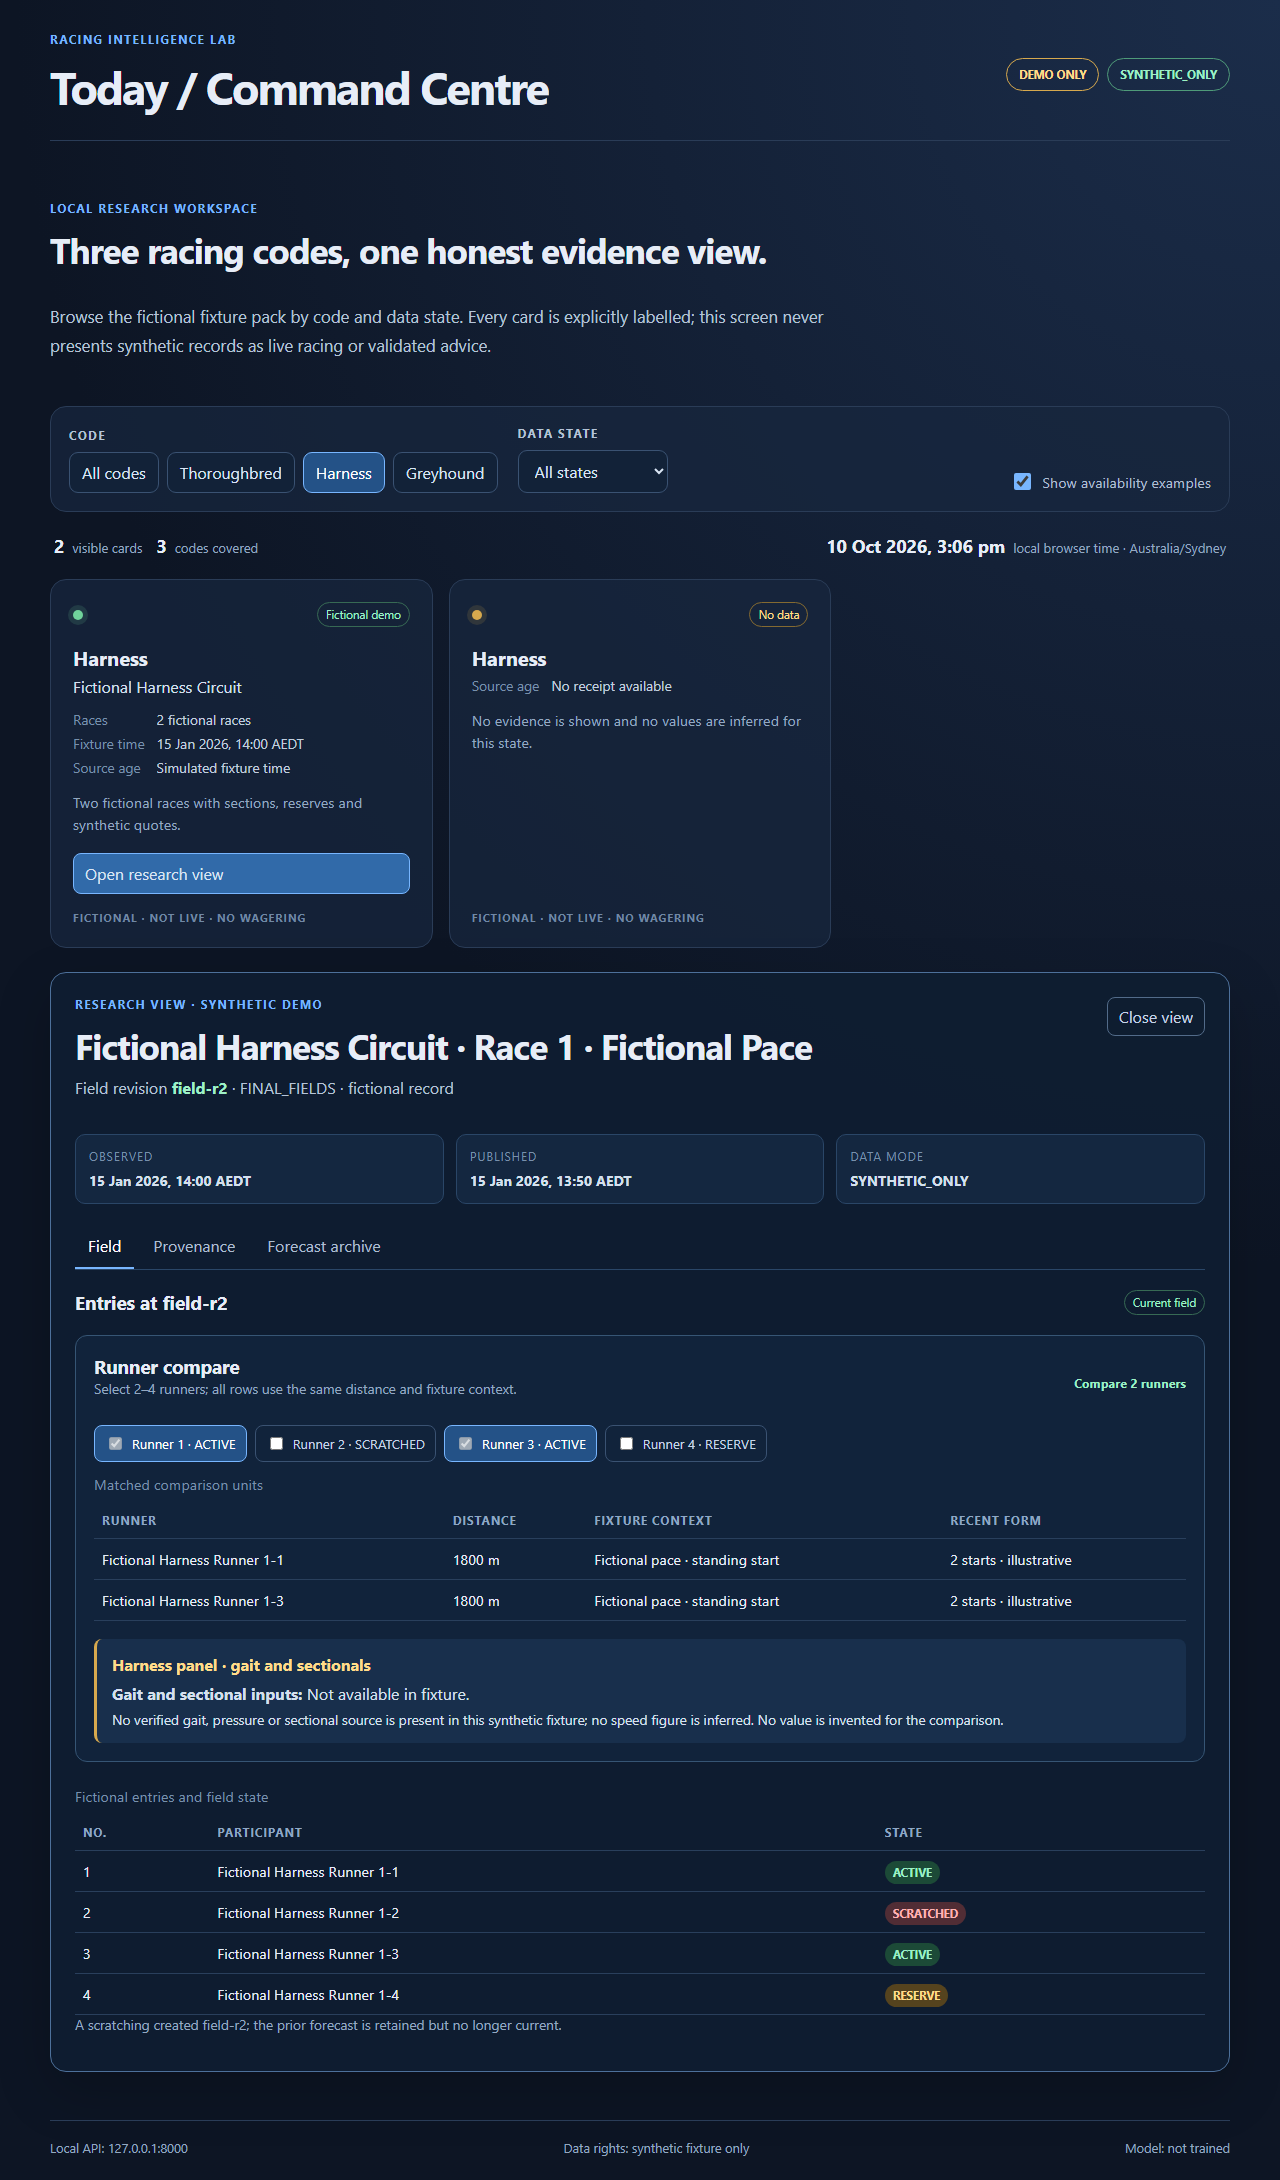
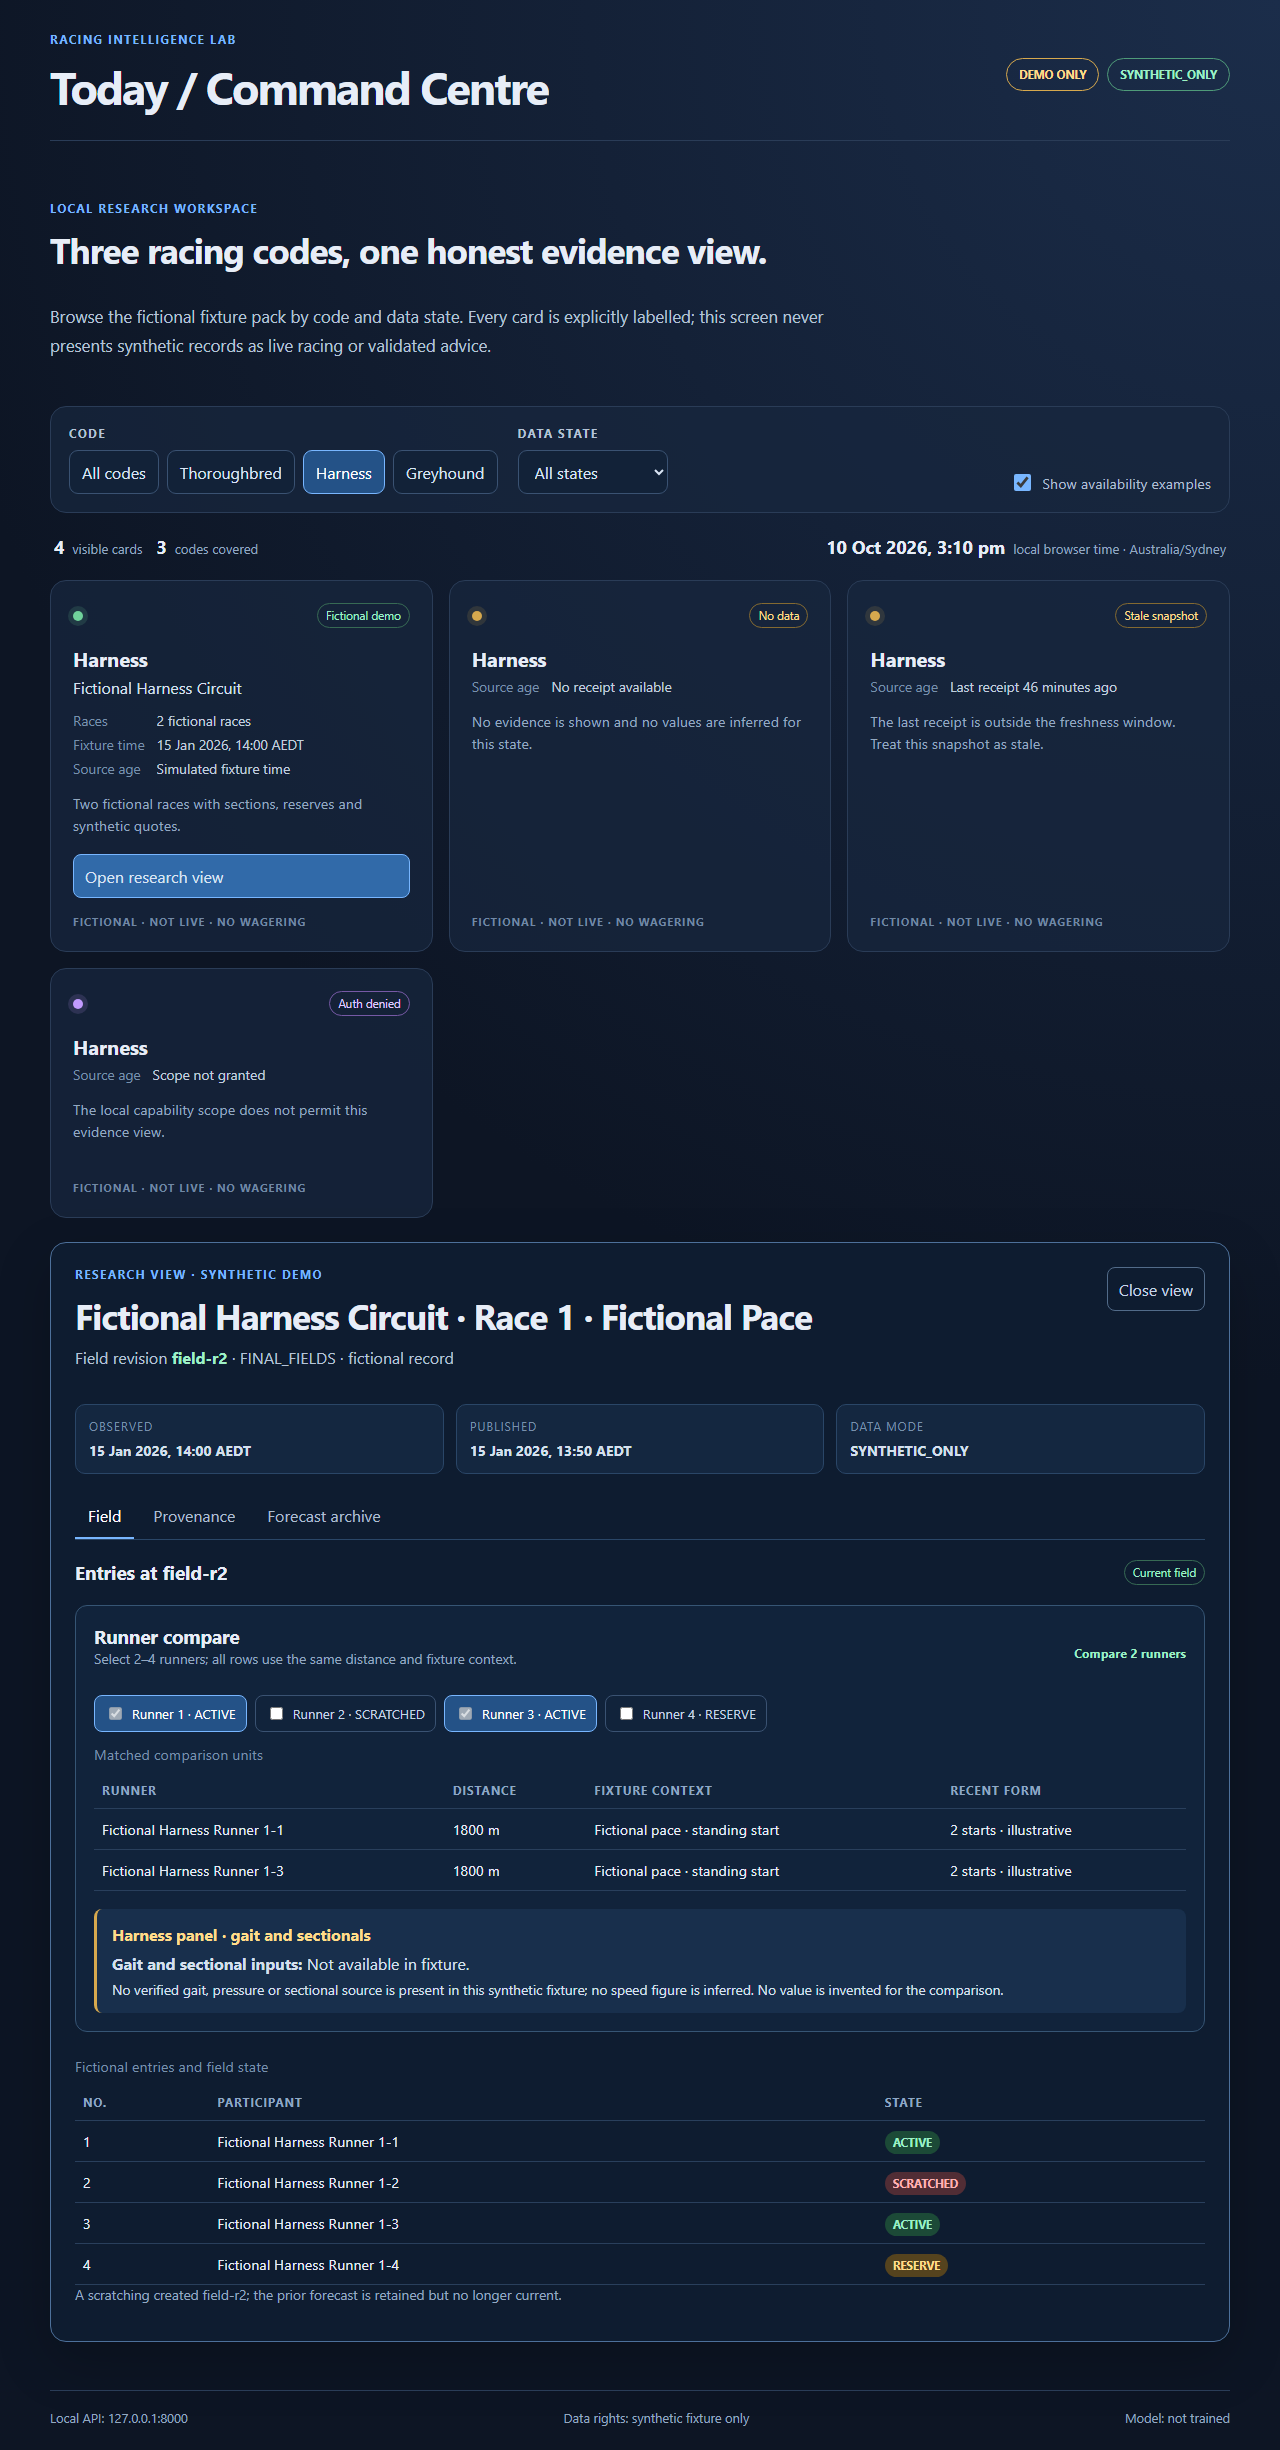
feat: harden degraded states and accessibility

diff --git a/apps/web/src/App.tsx b/apps/web/src/App.tsx
@@ -1,7 +1,7 @@
 import { useMemo, useState } from 'react';
 
 type Code = 'ALL' | 'THOROUGHBRED' | 'HARNESS' | 'GREYHOUND';
-type Status = 'DEMO' | 'NO_RACING' | 'NO_DATA' | 'UNAVAILABLE';
+type Status = 'DEMO' | 'NO_RACING' | 'NO_DATA' | 'UNAVAILABLE' | 'LOADING' | 'STALE' | 'QUARANTINED' | 'UNSUPPORTED' | 'AUTH_DENIED';
 
 type CommandItem = {
   id: string;
@@ -42,9 +42,14 @@ const codes: Array<{ value: Code; label: string }> = [
 const statuses: Array<{ value: Status | 'ALL'; label: string }> = [
   { value: 'ALL', label: 'All states' },
   { value: 'DEMO', label: 'Demo fixture' },
+  { value: 'LOADING', label: 'Loading' },
+  { value: 'STALE', label: 'Stale snapshot' },
   { value: 'NO_RACING', label: 'No racing' },
   { value: 'NO_DATA', label: 'No data' },
+  { value: 'QUARANTINED', label: 'Quarantined' },
+  { value: 'UNSUPPORTED', label: 'Unsupported' },
   { value: 'UNAVAILABLE', label: 'Unavailable' },
+  { value: 'AUTH_DENIED', label: 'Auth denied' },
 ];
 
 const commandItems: CommandItem[] = [
@@ -74,6 +79,26 @@ const commandItems: CommandItem[] = [
   {
     id: 'unavailable', code: 'THOROUGHBRED', label: 'Thoroughbred', status: 'UNAVAILABLE',
     sourceAge: 'Source disabled', note: 'This state is used when a source is disabled or not entitled.',
+  },
+  {
+    id: 'loading', code: 'THOROUGHBRED', label: 'Thoroughbred', status: 'LOADING',
+    sourceAge: 'Request in progress', note: 'The source request is still running. No partial values are displayed.',
+  },
+  {
+    id: 'stale', code: 'HARNESS', label: 'Harness', status: 'STALE',
+    sourceAge: 'Last receipt 46 minutes ago', note: 'The last receipt is outside the freshness window. Treat this snapshot as stale.',
+  },
+  {
+    id: 'quarantined', code: 'GREYHOUND', label: 'Greyhound', status: 'QUARANTINED',
+    sourceAge: 'Receipt held for review', note: 'The receipt failed validation and is quarantined until its reason is resolved.',
+  },
+  {
+    id: 'unsupported', code: 'THOROUGHBRED', label: 'Thoroughbred', status: 'UNSUPPORTED',
+    sourceAge: 'Capability not supported', note: 'This requested view is outside the current synthetic fixture capability.',
+  },
+  {
+    id: 'auth-denied', code: 'HARNESS', label: 'Harness', status: 'AUTH_DENIED',
+    sourceAge: 'Scope not granted', note: 'The local capability scope does not permit this evidence view.',
   },
 ];
 
@@ -136,6 +161,7 @@ const researchRaces: Record<Exclude<Code, 'ALL'>, ResearchRace> = {
 
 const statusText: Record<Status, string> = {
   DEMO: 'Fictional demo', NO_RACING: 'No racing', NO_DATA: 'No data', UNAVAILABLE: 'Unavailable',
+  LOADING: 'Loading', STALE: 'Stale snapshot', QUARANTINED: 'Quarantined', UNSUPPORTED: 'Unsupported', AUTH_DENIED: 'Auth denied',
 };
 
 function localNow(): string {
@@ -171,7 +197,7 @@ export default function App() {
       </section>
       <section className="command-panel" aria-label="Command centre filters">
         <div className="filter-group"><span className="filter-label">Code</span><div className="filter-row" role="group" aria-label="Filter by racing code">
-          {codes.map((code) => <button className={`filter-button ${selectedCode === code.value ? 'selected' : ''}`} key={code.value} onClick={() => setSelectedCode(code.value)} type="button">{code.label}</button>)}
+          {codes.map((code) => <button aria-pressed={selectedCode === code.value} className={`filter-button ${selectedCode === code.value ? 'selected' : ''}`} key={code.value} onClick={() => setSelectedCode(code.value)} type="button">{code.label}</button>)}
         </div></div>
         <div className="filter-group"><label className="filter-label" htmlFor="state-filter">Data state</label><select id="state-filter" value={selectedStatus} onChange={(event) => setSelectedStatus(event.target.value as Status | 'ALL')}>
           {statuses.map((status) => <option key={status.value} value={status.value}>{status.label}</option>)}
@@ -184,12 +210,12 @@ export default function App() {
         <div><span className="summary-value">{localNow()}</span><span className="summary-label">local browser time · Australia/Sydney</span></div>
       </section>
       <section className="code-grid" aria-label="Today command cards">
-        {visibleItems.map((item) => <article className={`code-card status-${item.status.toLowerCase()}`} key={item.id}>
+        {visibleItems.map((item) => <article aria-label={`${item.label} · ${statusText[item.status]}`} className={`code-card status-${item.status.toLowerCase()}`} key={item.id}>
           <div className="card-topline"><span className="status-dot" aria-hidden="true" /><span className="status-pill">{statusText[item.status]}</span></div>
           <h3>{item.label}</h3>{item.meeting && <p className="meeting-name">{item.meeting}</p>}
           <dl className="card-facts">{item.races !== undefined && <><dt>Races</dt><dd>{item.races} fictional races</dd></>}{item.localTime && <><dt>Fixture time</dt><dd>{item.localTime}</dd></>}<dt>Source age</dt><dd>{item.sourceAge}</dd></dl>
           <p className="card-note">{item.note}</p>
-          {item.status === 'DEMO' && <button className="research-button" onClick={() => { setSelectedRace(item.code); setEvidenceTab('FIELD'); }} type="button">Open research view</button>}
+          {item.status === 'DEMO' && <button aria-label={`Open research view for ${item.label}`} className="research-button" onClick={() => { setSelectedRace(item.code); setEvidenceTab('FIELD'); }} type="button">Open research view</button>}
           <span className="card-watermark">FICTIONAL · NOT LIVE · NO WAGERING</span>
         </article>)}
       </section>

diff --git a/e2e/command-centre.spec.ts b/e2e/command-centre.spec.ts
@@ -1,3 +1,4 @@
+import AxeBuilder from '@axe-core/playwright';
 import { expect, test } from '@playwright/test';
 
 test('command centre filters codes and distinguishes data states', async ({ page }) => {
@@ -27,7 +28,7 @@ test('command centre filters codes and distinguishes data states', async ({ page
   await page.screenshot({ path: 'docs/evidence/ril-018/race-research-view.png', fullPage: true });
   await page.getByRole('button', { name: 'Close view' }).click();
 
-  await page.getByRole('button', { name: 'Greyhound' }).click();
+  await page.getByRole('button', { name: 'Greyhound', exact: true }).click();
   await expect(page.getByRole('region', { name: 'Today command cards' }).getByText('No racing')).toBeVisible();
   await expect(page.getByText('Fictional Greyhound Track')).toBeVisible();
 
@@ -56,10 +57,33 @@ test('code-specific research panels explain missing specialty inputs', async ({ 
   for (const panel of panels) {
     await page.goto('/');
     await page.getByRole('button', { name: panel.code, exact: true }).click();
-    await page.getByRole('button', { name: 'Open research view' }).click();
+    await page.getByRole('button', { name: /Open research view/ }).click();
     const researchView = page.getByRole('region', { name: 'Race research view' });
     await expect(researchView.getByText(panel.title)).toBeVisible();
     await expect(researchView.getByText('No value is invented for the comparison.')).toBeVisible();
     await page.screenshot({ path: `docs/evidence/ril-019/${panel.file}`, fullPage: true });
   }
+});
+
+test('degraded states and accessible controls remain explicit at desktop and mobile sizes', async ({ page }) => {
+  await page.goto('/');
+  for (const state of ['Loading', 'Stale snapshot', 'Quarantined', 'Unsupported', 'Auth denied']) {
+    await expect(page.getByRole('article', { name: new RegExp(`· ${state}$`) })).toBeVisible();
+  }
+  await expect(page.getByText('No partial values are displayed.', { exact: false })).toBeVisible();
+  await expect(page.getByText('No value is inferred', { exact: false })).not.toBeVisible();
+
+  const accessibility = await new AxeBuilder({ page }).analyze();
+  expect(accessibility.violations).toEqual([]);
+
+  const allCodes = page.getByRole('button', { name: 'All codes', exact: true });
+  await allCodes.focus();
+  await expect(allCodes).toBeFocused();
+  await expect(allCodes).toHaveAttribute('aria-pressed', 'true');
+  await page.getByLabel('Data state').selectOption('AUTH_DENIED');
+  await expect(page.getByRole('region', { name: 'Today command cards' }).getByText('Auth denied', { exact: true })).toBeVisible();
+
+  await page.screenshot({ path: 'docs/evidence/ril-020/degraded-desktop.png', fullPage: true });
+  await page.setViewportSize({ width: 390, height: 844 });
+  await page.screenshot({ path: 'docs/evidence/ril-020/degraded-mobile.png', fullPage: true });
 });

diff --git a/apps/web/src/styles.css b/apps/web/src/styles.css
@@ -2,6 +2,8 @@
 * { box-sizing: border-box; }
 body { margin: 0; min-width: 320px; background: radial-gradient(circle at top right, #1b2d4a, #0d1524 50%); }
 button, select, input { font: inherit; }
+button:focus-visible, select:focus-visible, input:focus-visible { outline: 3px solid #9fd0ff; outline-offset: 2px; }
+button, select { min-height: 44px; }
 button { cursor: pointer; }
 .shell { width: min(1180px, calc(100% - 32px)); margin: 0 auto; padding: 32px 0 24px; }
 .topbar, .footer { display: flex; justify-content: space-between; align-items: center; gap: 16px; }
@@ -38,10 +40,20 @@ select { min-width: 150px; }
 .status-no_racing .status-dot { background: #78b6ff; box-shadow: 0 0 0 5px rgba(120, 182, 255, 0.14); }
 .status-no_data .status-dot { background: #d7a94e; box-shadow: 0 0 0 5px rgba(215, 169, 78, 0.14); }
 .status-unavailable .status-dot { background: #d47777; box-shadow: 0 0 0 5px rgba(212, 119, 119, 0.14); }
+.status-loading .status-dot { background: #78b6ff; box-shadow: 0 0 0 5px rgba(120, 182, 255, 0.14); }
+.status-stale .status-dot { background: #d7a94e; box-shadow: 0 0 0 5px rgba(215, 169, 78, 0.14); }
+.status-quarantined .status-dot { background: #d47777; box-shadow: 0 0 0 5px rgba(212, 119, 119, 0.14); }
+.status-unsupported .status-dot { background: #9ba9bb; box-shadow: 0 0 0 5px rgba(155, 169, 187, 0.14); }
+.status-auth_denied .status-dot { background: #c39bff; box-shadow: 0 0 0 5px rgba(195, 155, 255, 0.14); }
 .status-pill { color: #9ff0c6; border: 1px solid #376a54; border-radius: 999px; font-size: 0.72rem; padding: 4px 8px; }
 .status-no_racing .status-pill { color: #a9d2ff; border-color: #396495; }
 .status-no_data .status-pill { color: #ffdc8a; border-color: #846a31; }
 .status-unavailable .status-pill { color: #ffb3b3; border-color: #7f4545; }
+.status-loading .status-pill { color: #a9d2ff; border-color: #396495; }
+.status-stale .status-pill { color: #ffdc8a; border-color: #846a31; }
+.status-quarantined .status-pill { color: #ffb3b3; border-color: #7f4545; }
+.status-unsupported .status-pill { color: #c5d4e6; border-color: #687b92; }
+.status-auth_denied .status-pill { color: #dfc9ff; border-color: #7659a5; }
 .meeting-name { color: #d5e0ee; margin-bottom: 13px; }
 .card-facts { display: grid; grid-template-columns: auto 1fr; gap: 6px 12px; margin: 0 0 16px; font-size: 0.86rem; }
 .card-facts dt { color: #7890ab; }

diff --git a/docs/evidence/ril-020/accessibility-report.md b/docs/evidence/ril-020/accessibility-report.md
@@ -1,0 +1,24 @@
+# RIL-020 accessibility and degraded-state report
+
+## Scope
+
+The synthetic command centre exposes loading, stale snapshot, no racing, no data, quarantined, unsupported, unavailable and auth-denied states. Each state is labelled in the card status and has a plain-language explanation; no partial, inferred or live values are displayed.
+
+## Automated evidence
+
+Command: `pnpm web:e2e`
+
+Result: `3 passed`
+
+- Axe scan: zero violations on the default command-centre fixture, including colour-contrast checks.
+- Keyboard: code filter receives focus and exposes `aria-pressed` state.
+- Screen reader structure: labelled command-card region, labelled filters, named tabs, table captions and status text.
+- Responsive evidence: `degraded-desktop.png` and `degraded-mobile.png`.
+
+## Interaction controls
+
+- Interactive controls use a minimum 44px height and visible focus outlines.
+- The data-state selector exposes every degraded state as a labelled option.
+- The empty/no-data path explains that no values are inferred.
+- Auth-denied, unsupported and quarantined states explain the blocking condition rather than rendering a fabricated result.
+

diff --git a/README_START_HERE.md b/README_START_HERE.md
@@ -8,8 +8,8 @@ Racing Intelligence Lab is an independent, single-user, local-first research app
 - **Data mode:** synthetic-only for the active MVP; fictional fixtures must remain visibly labelled.
 - **Model status:** illustrative B0/B1 baselines only; no validated predictive claim.
 - **Wagering:** permanently out of scope; no bookmaker credentials, order endpoints or automatic staking.
-- **Current checkpoint:** RIL-019 runner comparison and code-specific research panels are implemented with matched contexts and explicit missing-input explanations.
-- **Next ticket:** RIL-020, after the RIL-019 evidence is accepted.
+- **Current checkpoint:** RIL-020 responsive degraded states and accessibility evidence are implemented for the synthetic command centre.
+- **Next ticket:** RIL-021, after the RIL-020 evidence is accepted.
 
 ## Normative reading order
 
